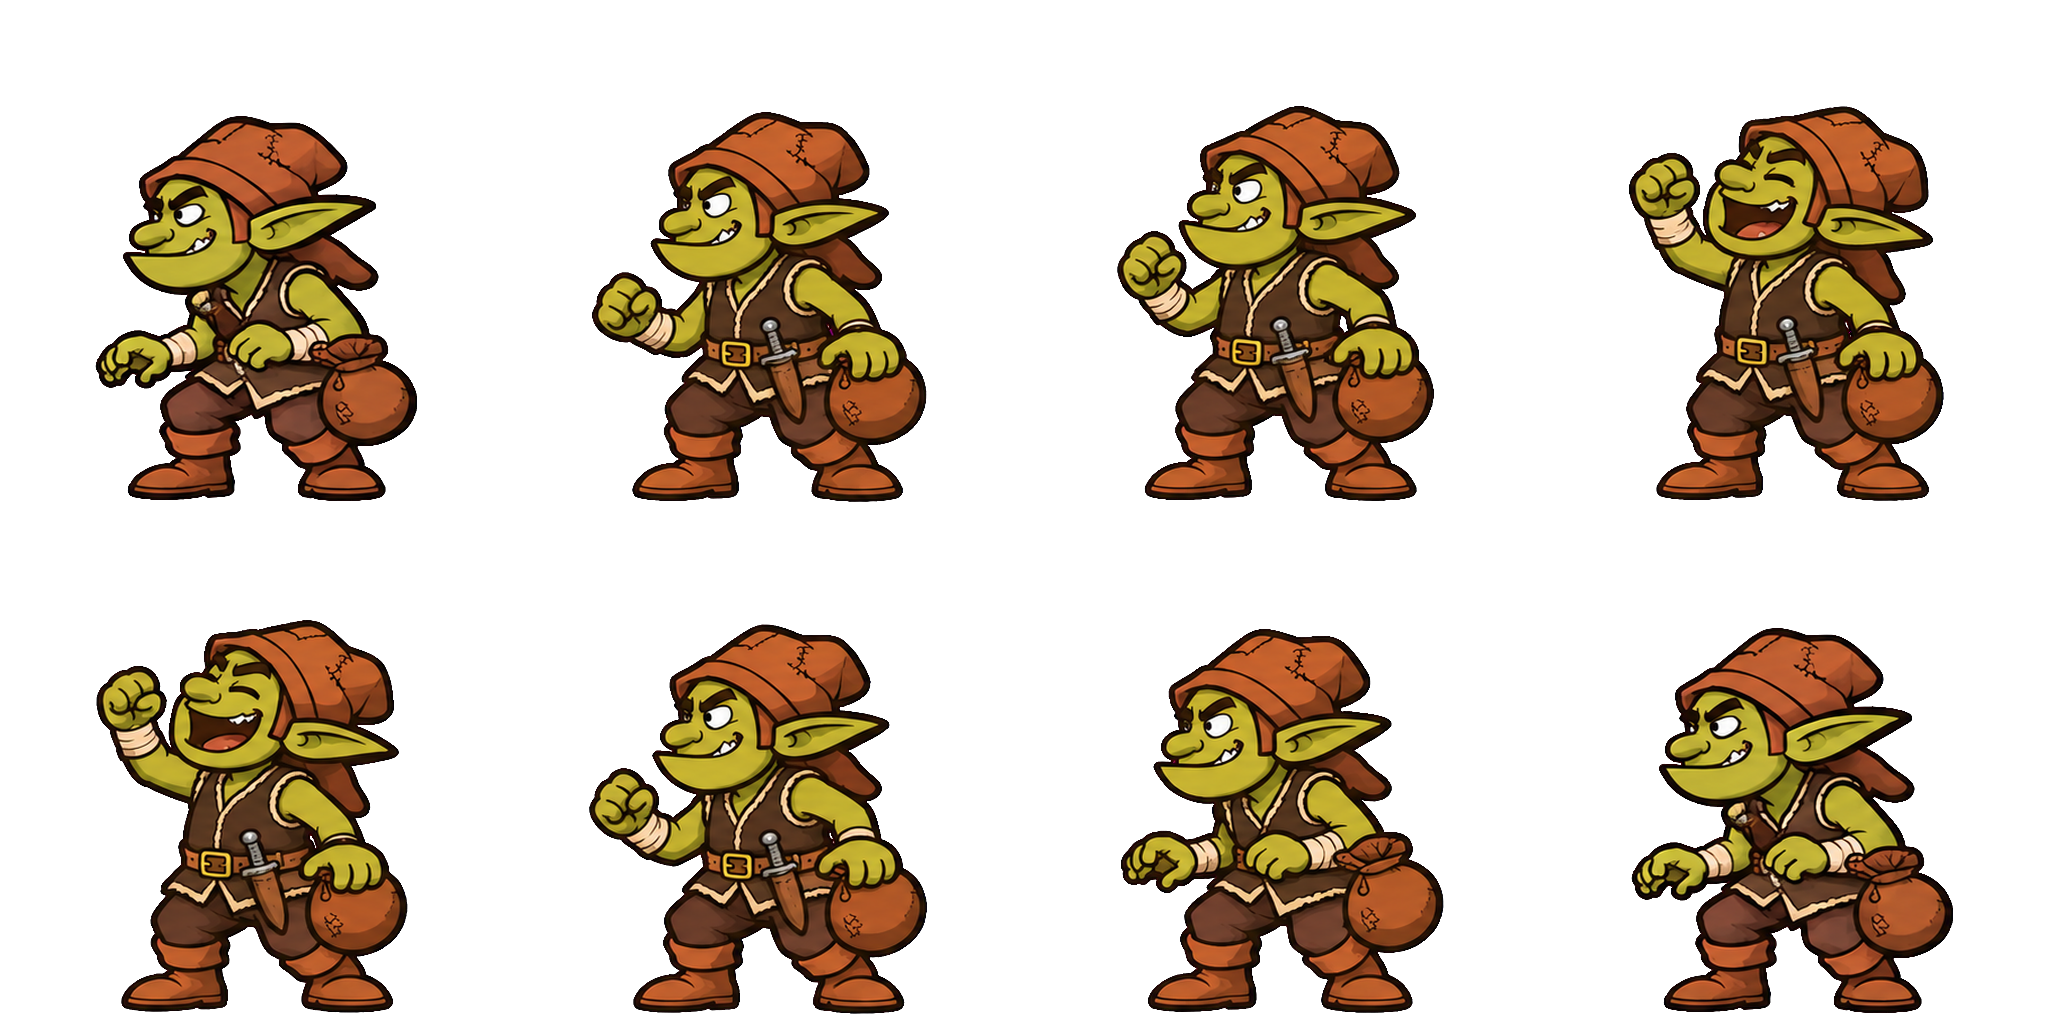
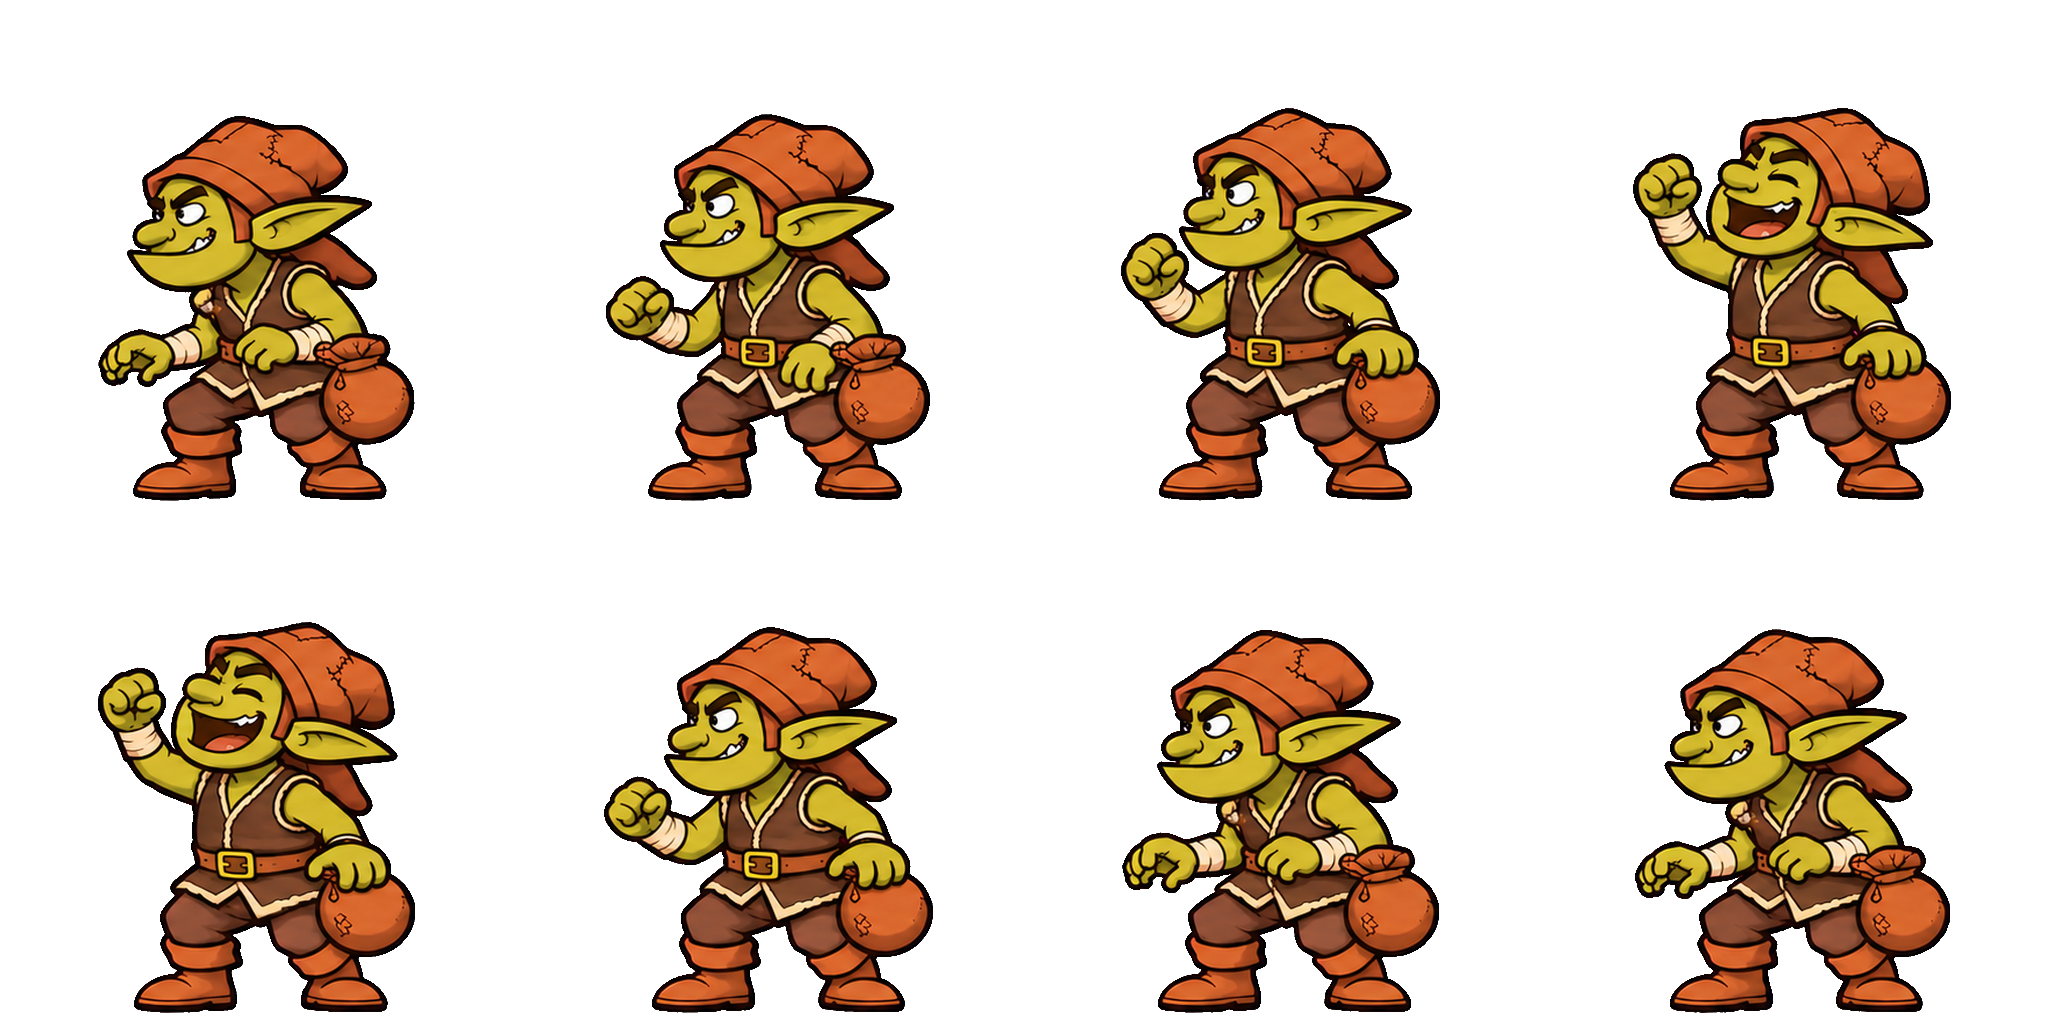
art: remove appearing belt dagger from thief victory

diff --git a/docs/ideas/sprites/monsters2/rounds.md b/docs/ideas/sprites/monsters2/rounds.md
@@ -5,3 +5,4 @@ Nhánh `art/monsters-2` từ `e68e8554e5164e486d15e968523817557492f550`. Chỉ s
 | Quái | Sheet | Kiểm | Vòng kiểm | Cao 0 / mẫu | Chân đầu/cuối (y,x) |
 |---|---|---|---:|---|---|
 | goblin_archer | special | ĐẠT | 1 | frame 0 body 391 px tall, reference 391 | [499.0, 254.5] / [500.0, 259.5] |
+| goblin_thief | victory | ĐẠT | 1 | frame 0 body 385 px tall, reference 385 | [500.0, 259.5] / [500.0, 260.0] |
